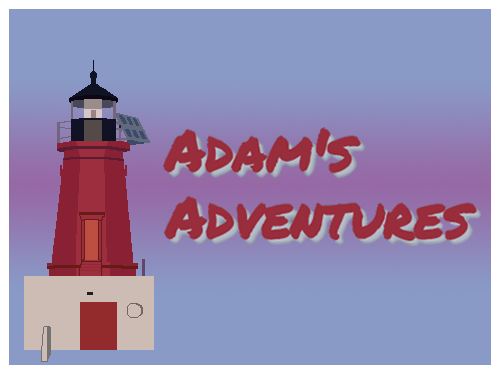
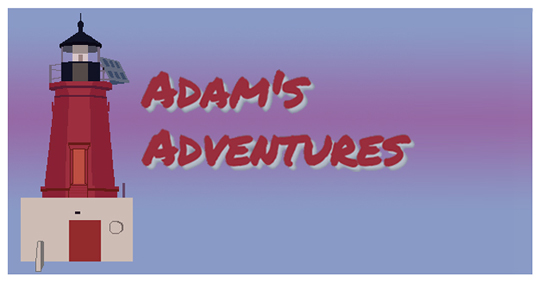
Changed project image dimensions, added new project

Changed region(s): [[0.0, 0.0, 0.99, 0.9929]]

diff --git a/src/app/feature/feature.component.ts b/src/app/feature/feature.component.ts
@@ -1,32 +1,30 @@
 import { Component, OnInit } from '@angular/core';
-import { Feature } from '../../properties/feature';
+import {ProjectsService} from '../services/projects.service';
+import {Project} from '../../properties/project';
 
 @Component({
   selector: 'app-feature',
   templateUrl: './feature.component.pug',
-  styleUrls: ['./feature.component.scss']
+  styleUrls: ['./feature.component.scss'],
+  providers: [ProjectsService]
 })
 export class FeatureComponent implements OnInit {
-  feature: Feature[] = [{
-    id: 1,
-    image : "adventures",
-    title : "Adam's Adventures",
-    link : "adventures"
-  },
-  {
-    id: 2,
-    image : "wildwildwest",
-    title : "Adam's Wild Wild West",
-    link : "wildwildwest"
-  }
-];
-  random = Math.floor(Math.random() * this.feature.length);
-  randomImage = this.feature[this.random].image;
-  randomLink = this.feature[this.random].link;
-  randomTitle = this.feature[this.random].title;
-  constructor() { }
+  constructor(private projectsService: ProjectsService) { }
+  projects: Project[];  
+  randomImage;
+  randomLink;
+  randomTitle;
 
   ngOnInit() {
+    this.getProjects();
   }
+  getProjects(): void {
+    this.projects = this.projectsService.getProjects().slice().reverse();
+    let random = Math.floor(Math.random() * this.projects.length);
+    this.randomImage = this.projects[random].image;
+    this.randomLink = this.projects[random].link;
+    this.randomTitle = this.projects[random].title;
+  }
+
 
 }

diff --git a/src/mock-data/mock-projects.ts b/src/mock-data/mock-projects.ts
@@ -164,6 +164,18 @@ export const PROJECTS: Project[] = [
         description: "Built with React, this project is based on my Wild Wild West project but contains multiple projects linked together via React Router.  Source code available via GitHub.",
         link: "adventures",
         languages: "React"
+      },
+      {
+        image: "victoria.jpg",
+        alt: "Adam's Black Ball",
+        title: "Adam's Black Ball",
+        created: "May 22, 2018",
+        createdAt: howManyDaysAgo(2018, 4, 22, new Date()),        
+        updated: "May 22, 2018",
+        updatedAt: howManyDaysAgo(2018, 4, 22, new Date()),        
+        description: "Source code available via GitHub.",
+        link: "victoria",
+        languages: "React"
       }
 ]
 

diff --git a/src/app/picture-week/picture-week.component.ts b/src/app/picture-week/picture-week.component.ts
@@ -30,6 +30,7 @@ export class PictureWeekComponent implements OnInit {
     this.state = this.pictures[this.pictures.length - 1].state;
   }
   updates = [
+    { title: "Adam's Black Ball", description: "Launched May 22, 2018, built with React"},
     { title: "Bellingham Native", description: "Launched April 23, 2018, built with React Native"},   
     { title: "Read Your Fortune Cookie", description: "Upgraded to Angular & TypeScript, January 28, 2018"},
     { title: "Kevin's Fun Facts", description: "Launched January 1, 2018, built with Android and Kotlin"}, 

diff --git a/src/mock-data/mock-pictures.ts b/src/mock-data/mock-pictures.ts
@@ -1092,5 +1092,12 @@ export const PICTURESOFTHEWEEK: Picture[] = [
 	"location": "Denver",
 	"state": "Colorado",
 	"week": "July 1, 2018"
+}, {
+	"title": "Bobbie the Wonder Dog",
+	"image": "img/silverton.jpg",
+	"description": "Only Great Dogs get Murals",
+	"location": "Silverton",
+	"state": "Oregon",
+	"week": "July 8, 2018"
 }
 ]

diff --git a/src/app/projects/projects.component.scss b/src/app/projects/projects.component.scss
@@ -3,6 +3,9 @@
 .container {
 	.project {
 		border-top: 1px solid white;
+		display: flex;
+		align-items: center;
+		justify-content: center;
 	}
 
 	.box {
@@ -33,6 +36,8 @@
 	max-width: 192px;
 	height: 360px;
 	overflow: hidden;
+	display: block;
+    margin: 0 auto;	
 	.content {
 		max-width: 192px;
 		max-height: 3146px;

diff --git a/src/app/app-routing.module.ts b/src/app/app-routing.module.ts
@@ -12,7 +12,7 @@ const routes: Routes = [
 
 
 @NgModule({
-  imports: [ RouterModule.forRoot(routes) ],
+  imports: [ RouterModule.forRoot(routes, { useHash: true }) ],
   exports: [ RouterModule ]
 })
 export class AppRoutingModule {}
